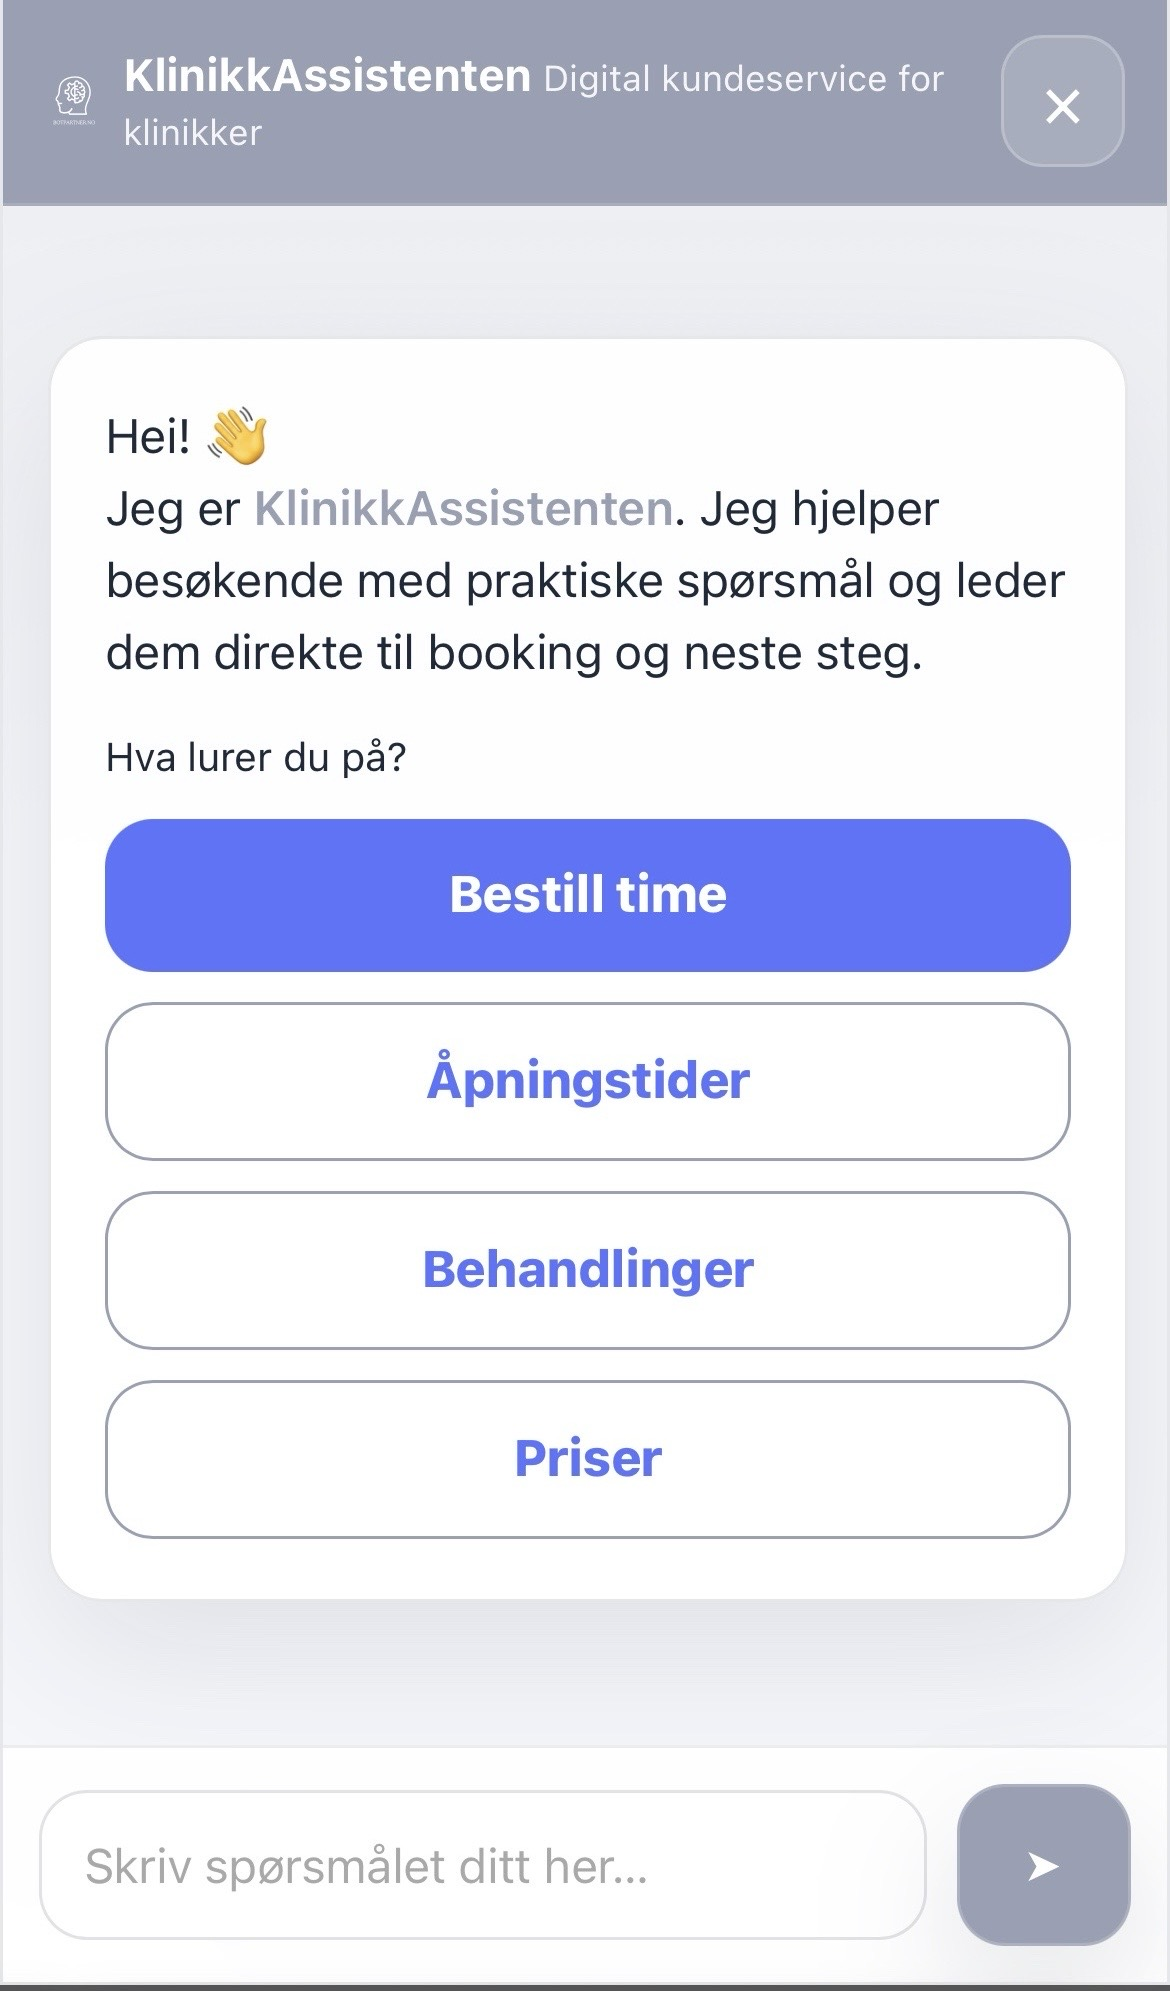
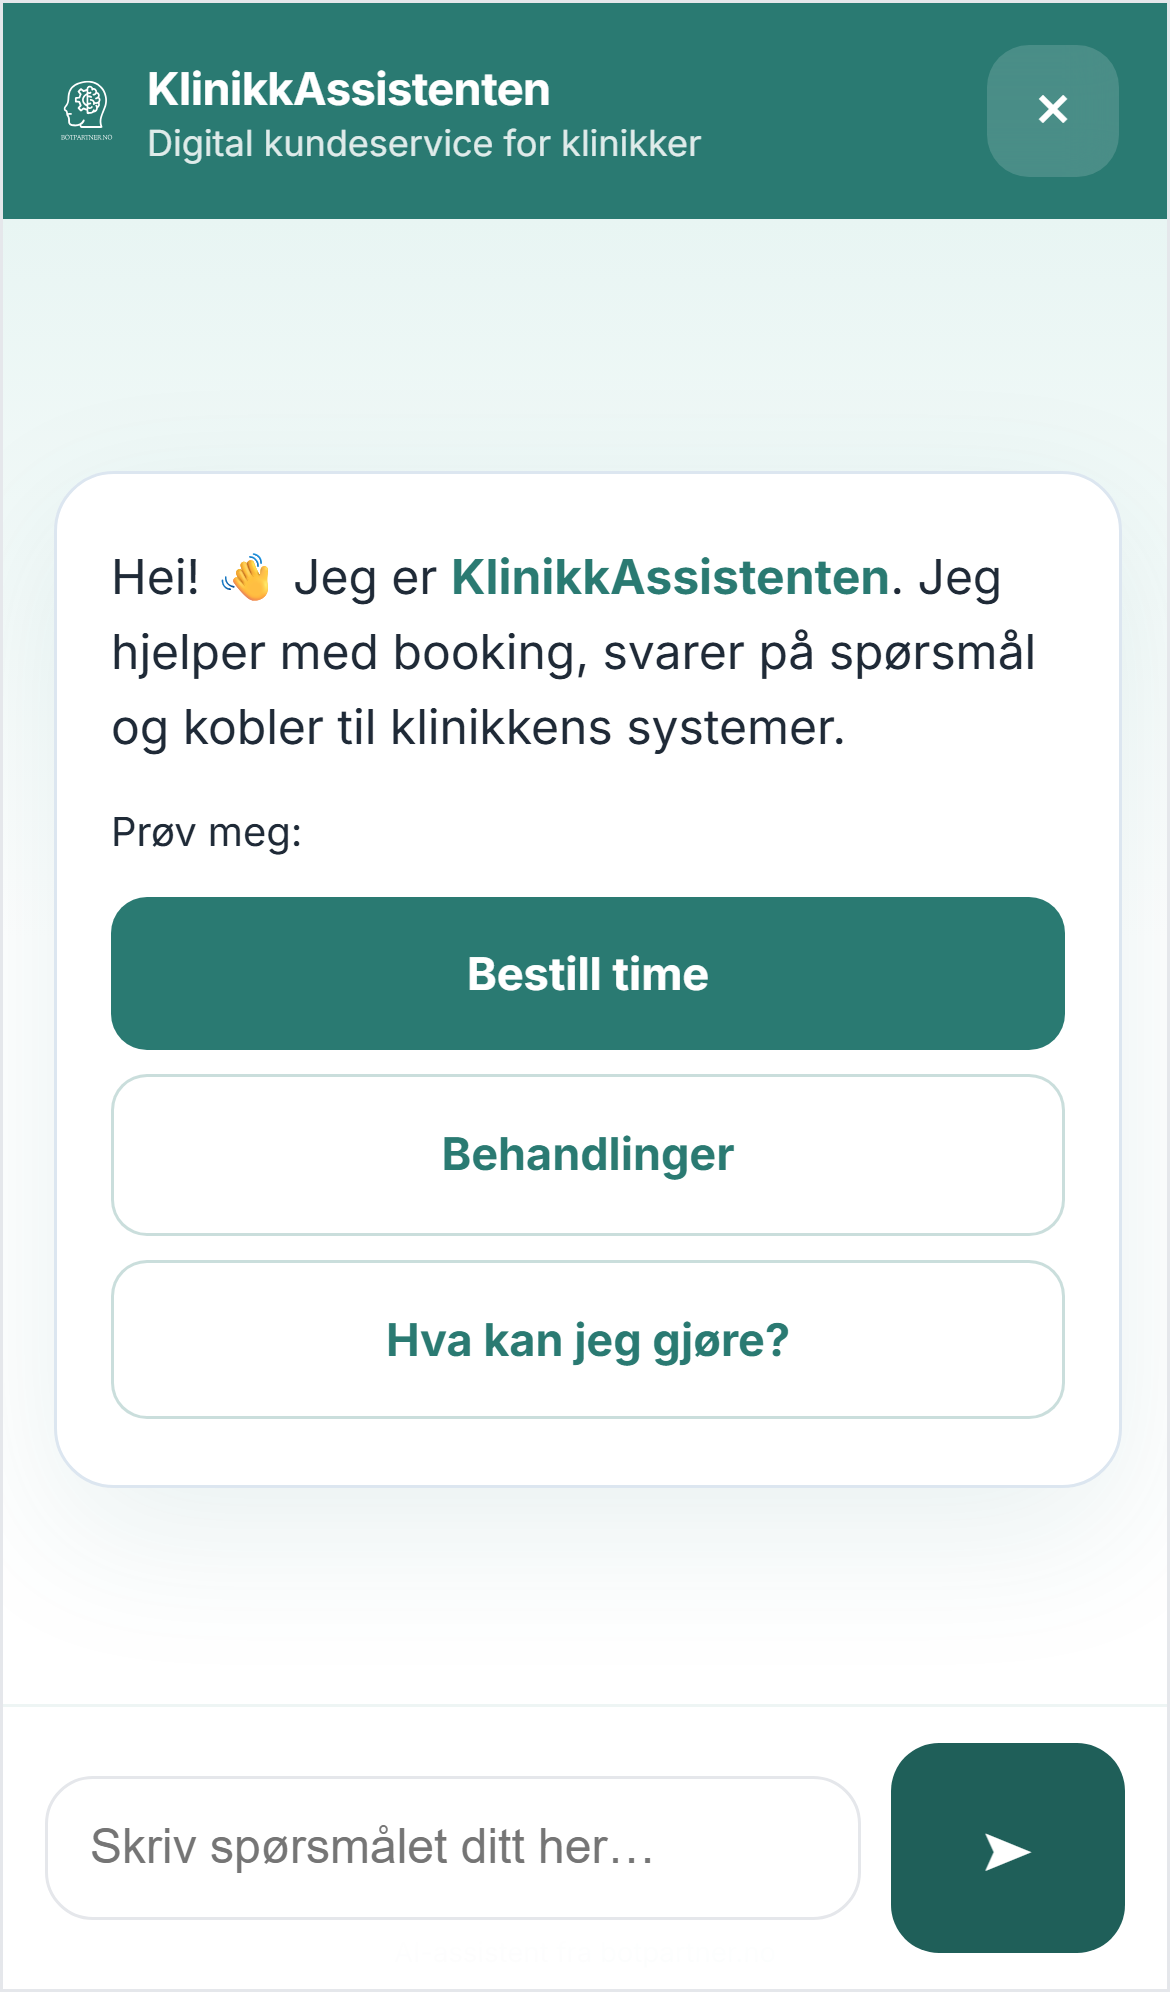
Redesign demo section with updated KlinikkAssistenten screenshots
- Replace old purple/blue screenshots with new green-themed design
- Restructure demo section: side-by-side desktop/mobile view with labels
- Add 3 highlight boxes (Booking, Kontrollerte svar, Ingen gjetting)
- Add "Prøv den selv" link directly under screenshots for immediate CTA
- Fix missing </section> tag that hid content below demo
- Remove unused images (Botpartner_buisiness, Botpartner_webicon)

diff --git a/botpartner_web.css b/botpartner_web.css
@@ -763,35 +763,110 @@ main .contact{
   opacity: .92;
 }
 
-/* DEMO: hold screenshots under kontroll (uten å påvirke andre bilder på siden) */
-.page-losninger #demo .case-right{
-  display:flex;
-  justify-content:center;
-  align-items:flex-start;
+/* DEMO SHOWCASE */
+.demo-showcase{
+  max-width: 960px;
+  margin: 0 auto;
 }
 
-/* Overstyr evt. global img { width:100% } kun i demo-seksjonen */
-.page-losninger #demo img{
-  width: auto !important;
-  height: auto !important;
+.demo-showcase-screens{
+  display: flex;
+  justify-content: center;
+  align-items: flex-end;
+  gap: 32px;
+  margin-bottom: 40px;
+}
 
-  max-width: 520px !important;
-  max-height: 420px !important;
+.demo-screen-desktop,
+.demo-screen-mobile{
+  display: flex;
+  flex-direction: column;
+  align-items: center;
+  gap: 12px;
+}
 
-  object-fit: contain;
-  display:block;
-
+.demo-screen-desktop img{
+  max-width: 380px;
+  width: 100%;
+  height: auto;
   border-radius: 14px;
   border: 1px solid rgba(0,0,0,.08);
-  box-shadow: 0 10px 30px rgba(0,0,0,.06);
-  background:#fff;
+  box-shadow: 0 12px 40px rgba(0,0,0,.08);
+  background: #fff;
 }
 
-/* Demo-kortet litt mer "produkt" på store skjermer */
-.page-losninger #demo .case-card{
-  max-width: 920px;
-  margin-left: auto;
-  margin-right: auto;
+.demo-screen-mobile img{
+  max-width: 220px;
+  width: 100%;
+  height: auto;
+  border-radius: 18px;
+  border: 1px solid rgba(0,0,0,.08);
+  box-shadow: 0 12px 40px rgba(0,0,0,.08);
+  background: #fff;
+}
+
+.demo-screen-label{
+  font-size: 0.82rem;
+  color: rgba(255,255,255,.7);
+  letter-spacing: 0.02em;
+}
+
+.demo-try-link{
+  text-align: center;
+  margin: 20px 0 32px;
+}
+
+.demo-try-link a{
+  color: #e8734a;
+  font-weight: 600;
+  font-size: 1.05rem;
+  text-decoration: none;
+  letter-spacing: 0.01em;
+  transition: color .15s;
+}
+
+.demo-try-link a:hover{
+  color: #f09070;
+}
+
+.demo-showcase-info{
+  max-width: 640px;
+  margin: 0 auto;
+}
+
+.demo-highlights{
+  display: grid;
+  grid-template-columns: repeat(3, 1fr);
+  gap: 16px;
+  margin-bottom: 28px;
+}
+
+.demo-highlight{
+  display: flex;
+  flex-direction: column;
+  gap: 4px;
+  padding: 16px;
+  border-radius: 10px;
+  background: rgba(255,255,255,.04);
+  border: 1px solid rgba(255,255,255,.08);
+}
+
+.demo-highlight strong{
+  font-size: 0.95rem;
+  color: #fff;
+}
+
+.demo-highlight span{
+  font-size: 0.82rem;
+  color: rgba(255,255,255,.7);
+  line-height: 1.4;
+}
+
+.demo-showcase-actions{
+  display: flex;
+  justify-content: center;
+  gap: 12px;
+  flex-wrap: wrap;
 }
 .hero-actions{
   display:flex;
@@ -823,57 +898,33 @@ main .contact{
     padding: 0 10px;
   }
 
-  /* ===== DEMO =====
-     Sørg for at demo-kortet faktisk bruker GRID (ikke flex),
-     og stack alt pent på mobil.
-  */
-  .page-losninger #demo .case-card{
-    display: grid;
-    grid-template-columns: 1fr;
-    gap: 14px;
-    padding: 16px;
-  }
-
-  .page-losninger #demo .case-actions{
+  /* ===== DEMO SHOWCASE MOBILE ===== */
+  .demo-showcase-screens{
     flex-direction: column;
-    align-items: stretch;
-    gap: 10px;
-  }
-
-  .page-losninger #demo .case-actions a{
-    width: 100%;
-    text-align: center;
-  }
-
-  /* Demo media: ikke absolutt/overlapp på mobil */
-  .page-losninger #demo .demo-media{
-    position: static;
-    min-height: auto;
-    display: flex;
-    justify-content: center;
     align-items: center;
+    gap: 24px;
   }
 
-  /* Skjul desktop-shot på mobil og vis mobil-shot kontrollert */
-  .page-losninger #demo .demo-desktop{
+  .demo-screen-desktop{
     display: none;
   }
 
-  .page-losninger #demo .demo-mobile{
-    position: static;
-    width: min(360px, 100%);
-    max-width: 360px;
-    margin: 0 auto;
-    border-radius: 18px;
+  .demo-screen-mobile img{
+    max-width: 300px;
   }
 
-  /* Overstyr “width:auto” regelen i demo på mobil så bildet oppfører seg responsivt */
-  .page-losninger #demo img{
-    width: 100% !important;
-    height: auto !important;
-    max-width: 360px !important;
-    max-height: none !important;
-    object-fit: contain;
+  .demo-highlights{
+    grid-template-columns: 1fr;
+    gap: 10px;
+  }
+
+  .demo-showcase-actions{
+    flex-direction: column;
+    align-items: stretch;
+  }
+
+  .demo-showcase-actions a{
+    text-align: center;
   }
 
   /* Chips: litt mindre på mobil */
@@ -966,14 +1017,6 @@ main .contact{
   }
 }
 
-/* Desktop: lås demo-layout riktig (hvis du vil ha 2 kolonner der) */
-@media (min-width: 901px){
-  .page-losninger #demo .case-card{
-    display: grid;
-    grid-template-columns: 1fr 520px;
-    align-items: center;
-  }
-}
 
 
 

diff --git a/losninger.html b/losninger.html
@@ -173,47 +173,63 @@
 
     <!-- DEMO -->
     <section class="section" id="demo">
-      <h2>Demo: KlinikkAssistenten</h2>
+      <h2>Se produktet på 10 sekunder</h2>
       <p class="lead">
-        Et ferdig eksempel du kan teste. Dette er referansen for hvordan vi bygger kontrollert flyt, tone og konvertering.
+        KlinikkAssistenten er et ferdig eksempel på hvordan vi bygger kontrollert flyt, tone og konvertering. Test den selv.
       </p>
 
-      <div class="case-card demo-card">
-  <div class="case-left">
-    <h3>Test live</h3>
-    <p class="case-meta">Prøv et par spørsmål. Du ser produktet på 10 sek.</p>
+      <div class="demo-showcase">
+        <div class="demo-showcase-screens" aria-label="Slik ser assistenten ut på desktop og mobil">
+          <div class="demo-screen-desktop">
+            <img
+              src="Klinikkassistenten_desktop.png"
+              alt="KlinikkAssistenten – desktopvisning (widget på nettside)"
+              loading="lazy"
+              width="380"
+            />
+            <span class="demo-screen-label">Widget på nettside</span>
+          </div>
+          <div class="demo-screen-mobile">
+            <img
+              src="Klinikkassistenten_mobil.png"
+              alt="KlinikkAssistenten – mobilvisning (fullskjerm)"
+              loading="lazy"
+              width="280"
+            />
+            <span class="demo-screen-label">Fullskjerm på mobil</span>
+          </div>
+        </div>
 
-    <div class="case-actions">
-      <a class="cta-button" href="https://klinikkassistenten.netlify.app/" target="_blank" rel="noopener noreferrer">
-        Test demo →
-      </a>
-      <a class="btn-outline" href="index.html#gjennomgang">Book gjennomgang</a>
-    </div>
+        <p class="demo-try-link">
+          <a href="https://klinikkassistenten.netlify.app/" target="_blank" rel="noopener noreferrer">
+            Prøv den selv →
+          </a>
+        </p>
 
-    <div class="chips" aria-label="Kort oppsummering av demoen">
-      <span class="chip">Widget</span>
-      <span class="chip">Fullskjerm på mobil</span>
-      <span class="chip">Booking + svar</span>
-    </div>
-  </div>
+        <div class="demo-showcase-info">
+          <div class="demo-highlights">
+            <div class="demo-highlight">
+              <strong>Booking-knapp</strong>
+              <span>Leder direkte til timebestilling</span>
+            </div>
+            <div class="demo-highlight">
+              <strong>Kontrollerte svar</strong>
+              <span>Svarer kun på det som er verifisert</span>
+            </div>
+            <div class="demo-highlight">
+              <strong>Ingen gjetting</strong>
+              <span>Regelbasert – ikke en åpen chatbot</span>
+            </div>
+          </div>
 
-  <div class="case-right demo-media" aria-label="Slik ser assistenten ut på desktop og mobil">
-    <img
-      class="demo-desktop"
-      src="Klinikkassistenten_desktop.png"
-      alt="KlinikkAssistenten – desktopvisning (widget på nettside)"
-      loading="lazy"
-      width="900"
-    />
-    <img
-      class="demo-mobile"
-      src="Klinikkassistenten_mobil.png"
-      alt="KlinikkAssistenten – mobilvisning (fullskjerm)"
-      loading="lazy"
-      width="420"
-    />
-  </div>
-</div>
+          <div class="demo-showcase-actions">
+            <a class="cta-button" href="https://klinikkassistenten.netlify.app/" target="_blank" rel="noopener noreferrer">
+              Test demo →
+            </a>
+            <a class="btn-outline" href="index.html#gjennomgang">Book gjennomgang</a>
+          </div>
+        </div>
+      </div>
 
 <p class="deliver-note">
   KlinikkAssistenten er et eksempel. Samme rammeverk tilpasses helse, salg, restaurant, eiendom og service. Se hvordan vi leverer <a href="ai-assistent-nettside.html">AI-assistent for nettsider</a>.
@@ -222,6 +238,7 @@
   <span> · </span>
   <a class="card-link" href="index.html#faq">Se FAQ →</a>
 </p>
+    </section>
 
     <!-- BRUKSOMRÅDER -->
     <section class="section" id="bruksomrader">
